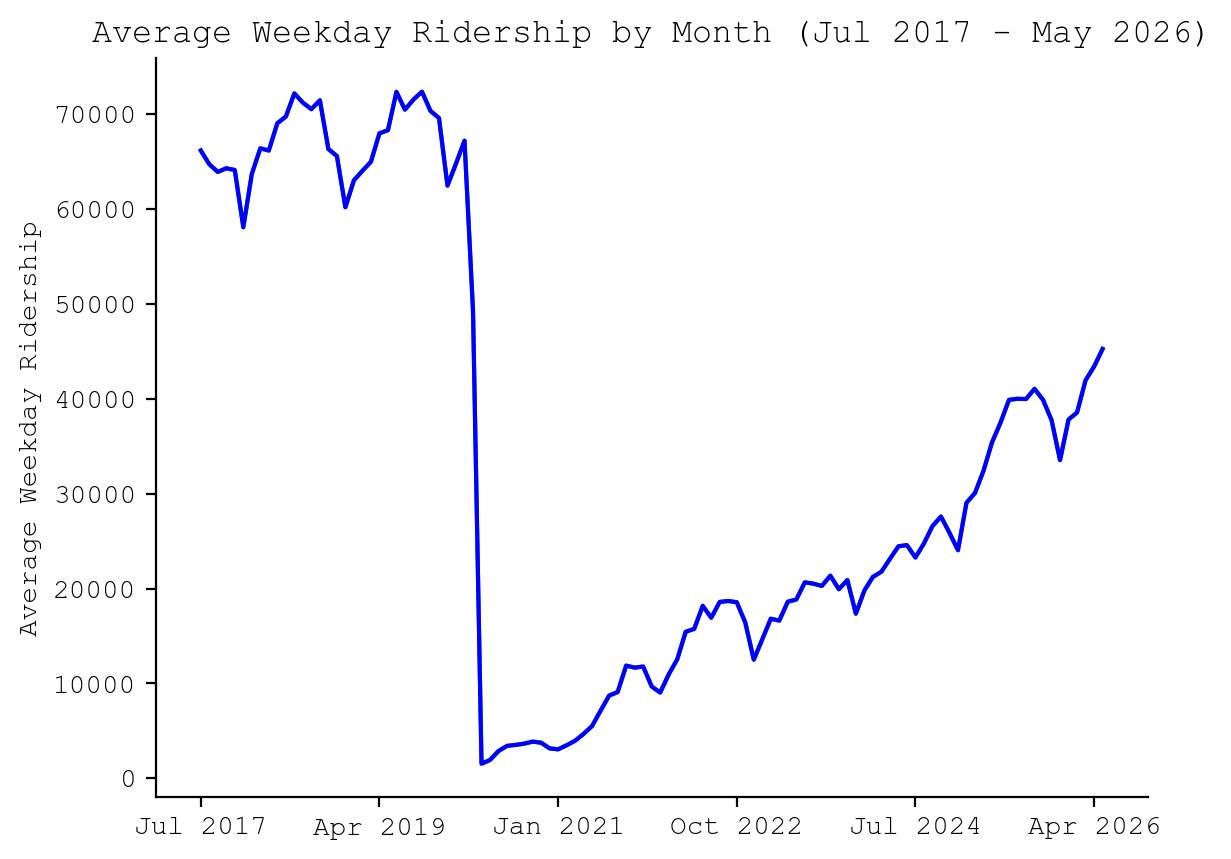
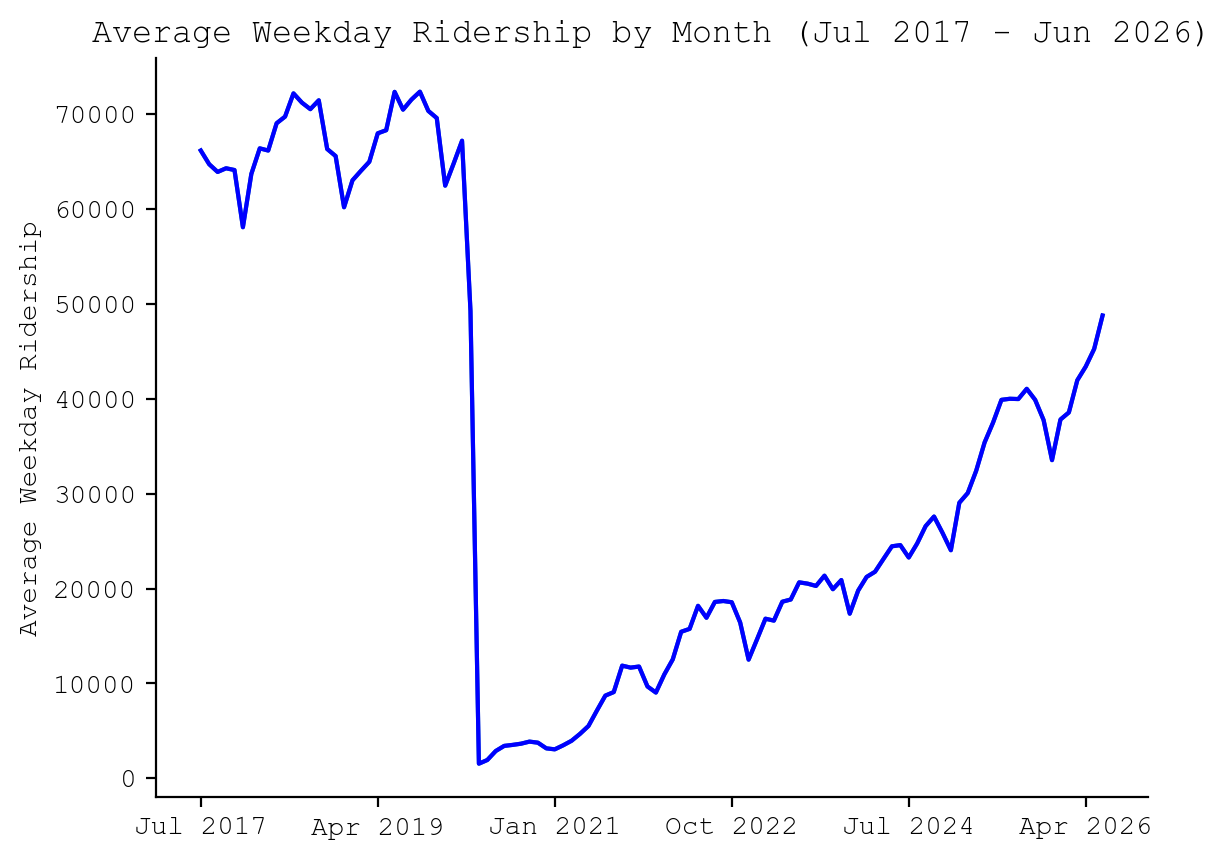
add jun 2026

diff --git a/site/index.html b/site/index.html
@@ -9,15 +9,15 @@
 </head>
 <body>
     <h1>Caltrain Ridership</h1>
-    <p><em>Last updated: 2026-06-10</em></p>    
+    <p><em>Last updated: 2026-07-12</em></p>    
     <div class="news">
         <p>
             It looks like you're on desktop, so you can use Caltrain's new ridership web page which has more detailed ridership data from 2023 onwards: <a href="https://www.caltrain.com/about-caltrain/statistics-reports/ridership/fare-media-based">https://www.caltrain.com/about-caltrain/statistics-reports/ridership/fare-media-based</a>.
         </p>
     </div>
     <p>
-        This site contains graphs and a table of Caltrain's average weekday ridership from Jul 2017 to May 2026 sourced from <a href="https://www.caltrain.com/about-caltrain/statistics-reports/ridership/fare-media-based">Fare Media Sales-Based Ridership Estimates</a> and JPB Citizens Advisory Committee documents.
-        Average weekday ridership is reported with a 1-month lag, so the most recent data is from May 2026.
+        This site contains graphs and a table of Caltrain's average weekday ridership from Jul 2017 to Jun 2026 sourced from <a href="https://www.caltrain.com/about-caltrain/statistics-reports/ridership/fare-media-based">Fare Media Sales-Based Ridership Estimates</a> and JPB Citizens Advisory Committee documents.
+        Average weekday ridership is reported with a 1-month lag, so the most recent data is from Jun 2026.
     </p>
     <p>
         You can find a <a href="https://github.com/iechevarria/caltrain-ridership/blob/main/ridership.csv">CSV</a> of Caltrain's average weekday ridership and the script to generate this site on <a href="https://github.com/iechevarria/caltrain-ridership">GitHub</a>.
@@ -31,6 +31,10 @@
     <tr>
         <td>Month</td>
         <td>Average weekday ridership</td>
+    </tr>
+    <tr>
+        <td>Jun 2026</td>
+        <td>48794</td>
     </tr>
     <tr>
         <td>May 2026</td>
